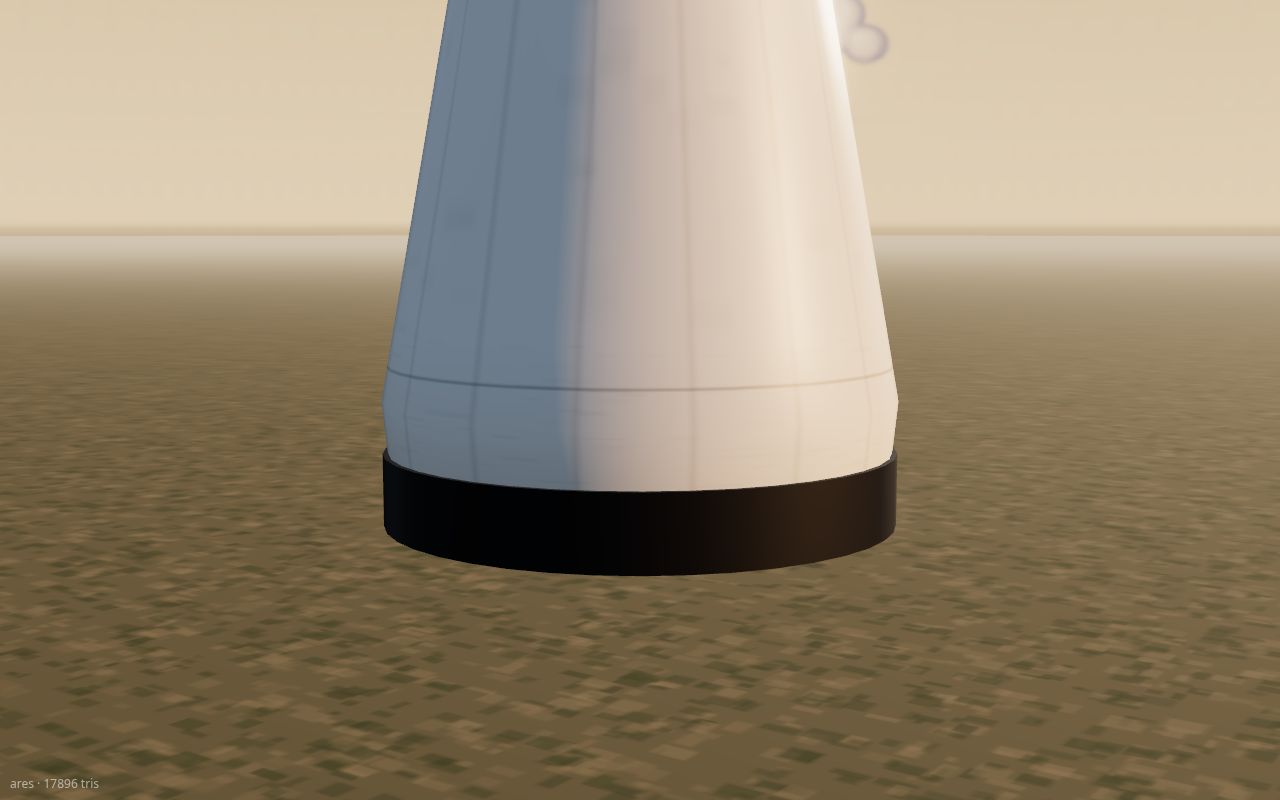
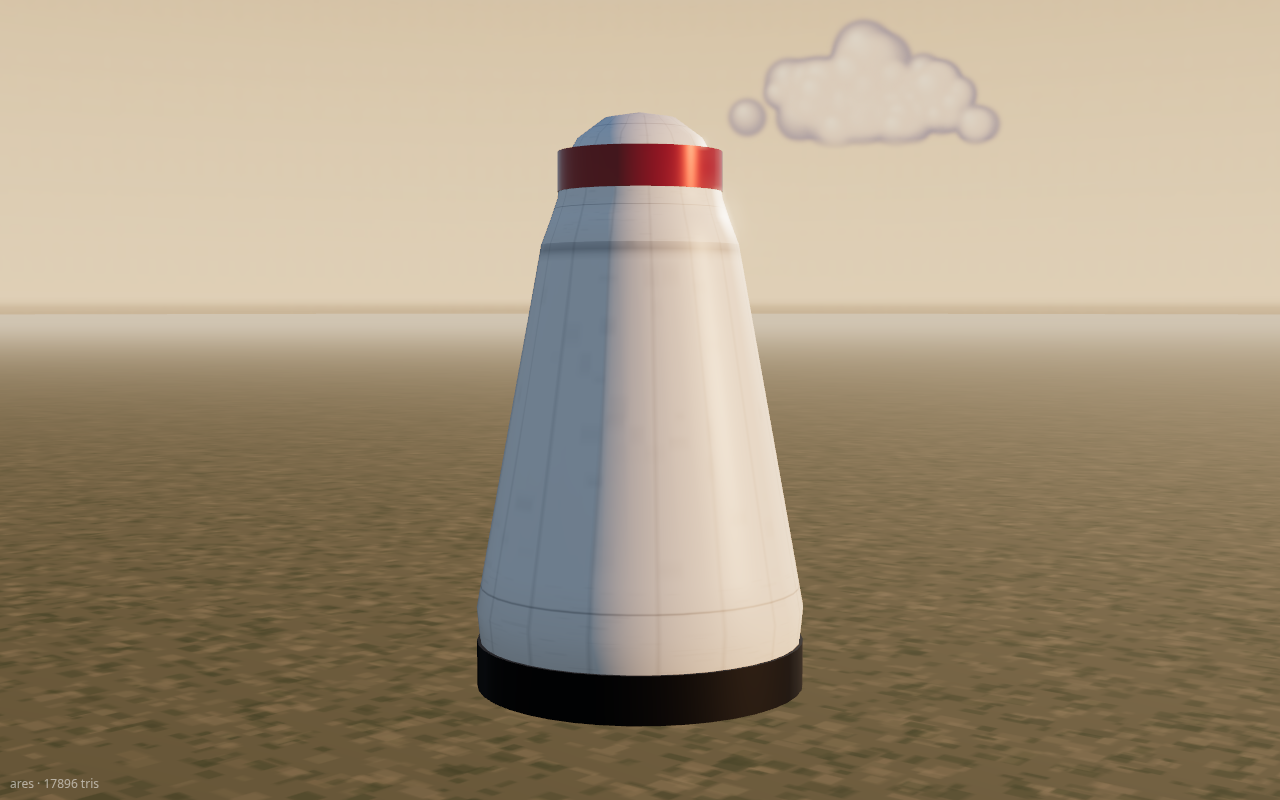
hero: fit-to-stage framing; re-shoot selene lander (lower/wider, legs out) and ares capsule

diff --git a/gfx/vehicles/hero.html b/gfx/vehicles/hero.html
@@ -95,6 +95,10 @@ async function shot(s) { if (cur) { dispose(cur); cur = null; } const h = VEHICL
   if (s.hero) { // fit: vertical span (base..tip) = 85 % of the frame, camera low (slight upward tilt)
     const span = H / 0.85, d = span / (2 * Math.tan(camera.fov * Math.PI / 360)); target = new THREE.Vector3(0, base + H * 0.5, 0);
     pos = new THREE.Vector3(Math.sin(yaw) * d, base + H * 0.5 - d * Math.tan(5 * Math.PI / 180) * 1.0, Math.cos(yaw) * d); pos.y = Math.max(1.6, pos.y - H * 0.18); }
+  else if (s.fit) { // fit: frame only the visible stage (s.only) from direction s.fit [x,y,z], 80 % of frame height
+    const bb = new THREE.Box3(); cur.updateMatrixWorld(true); for (const c of cur.children) if (c.visible) bb.expandByObject(c);
+    const sz = bb.getSize(new THREE.Vector3()), dd = Math.max(sz.y, sz.x * 0.75) / 0.8 / (2 * Math.tan(camera.fov * Math.PI / 360)) + sz.z / 2; target = bb.getCenter(new THREE.Vector3());
+    pos = target.clone().add(new THREE.Vector3(...s.fit).normalize().multiplyScalar(dd)); }
   else { pos = new THREE.Vector3(...s.cam.map(v => v * h)).add(new THREE.Vector3(0, base, 0)); target = new THREE.Vector3(...s.aim.map(v => v * h)).add(new THREE.Vector3(0, base, 0)); }
   camera.position.copy(pos); camera.lookAt(target);
   // key from the camera's side (sunAz from the view direction), low golden sun; rim from behind the vehicle
